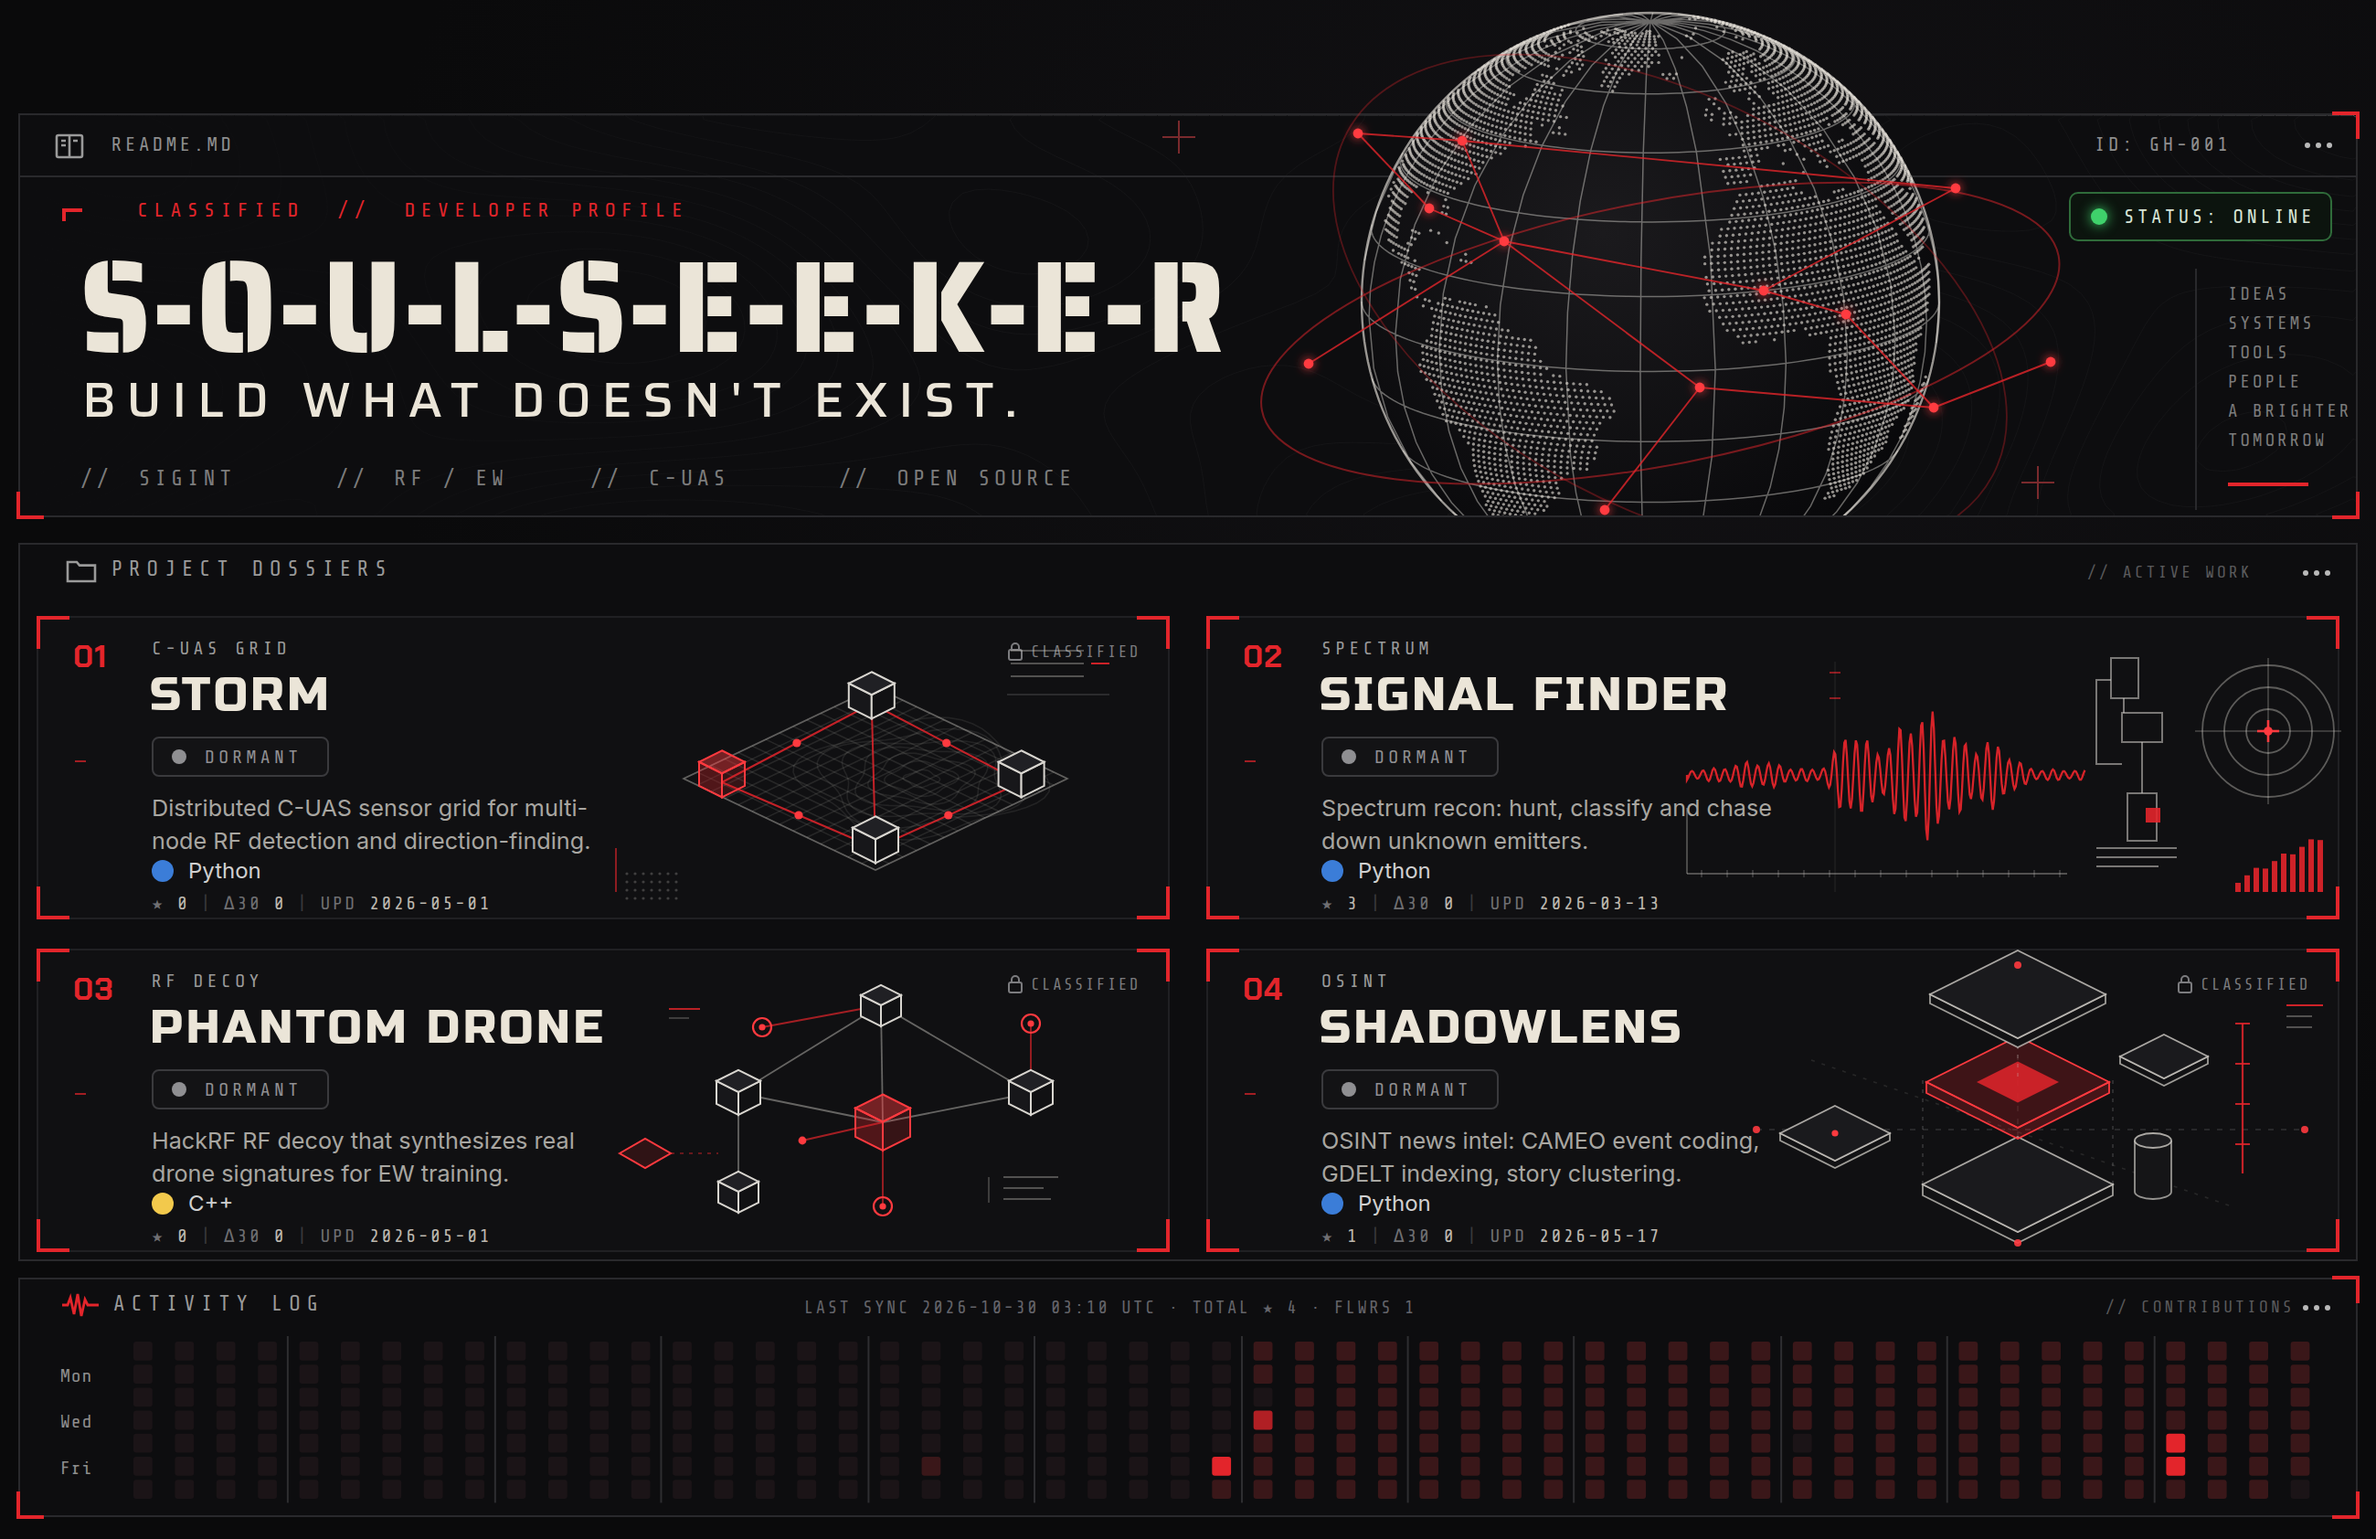
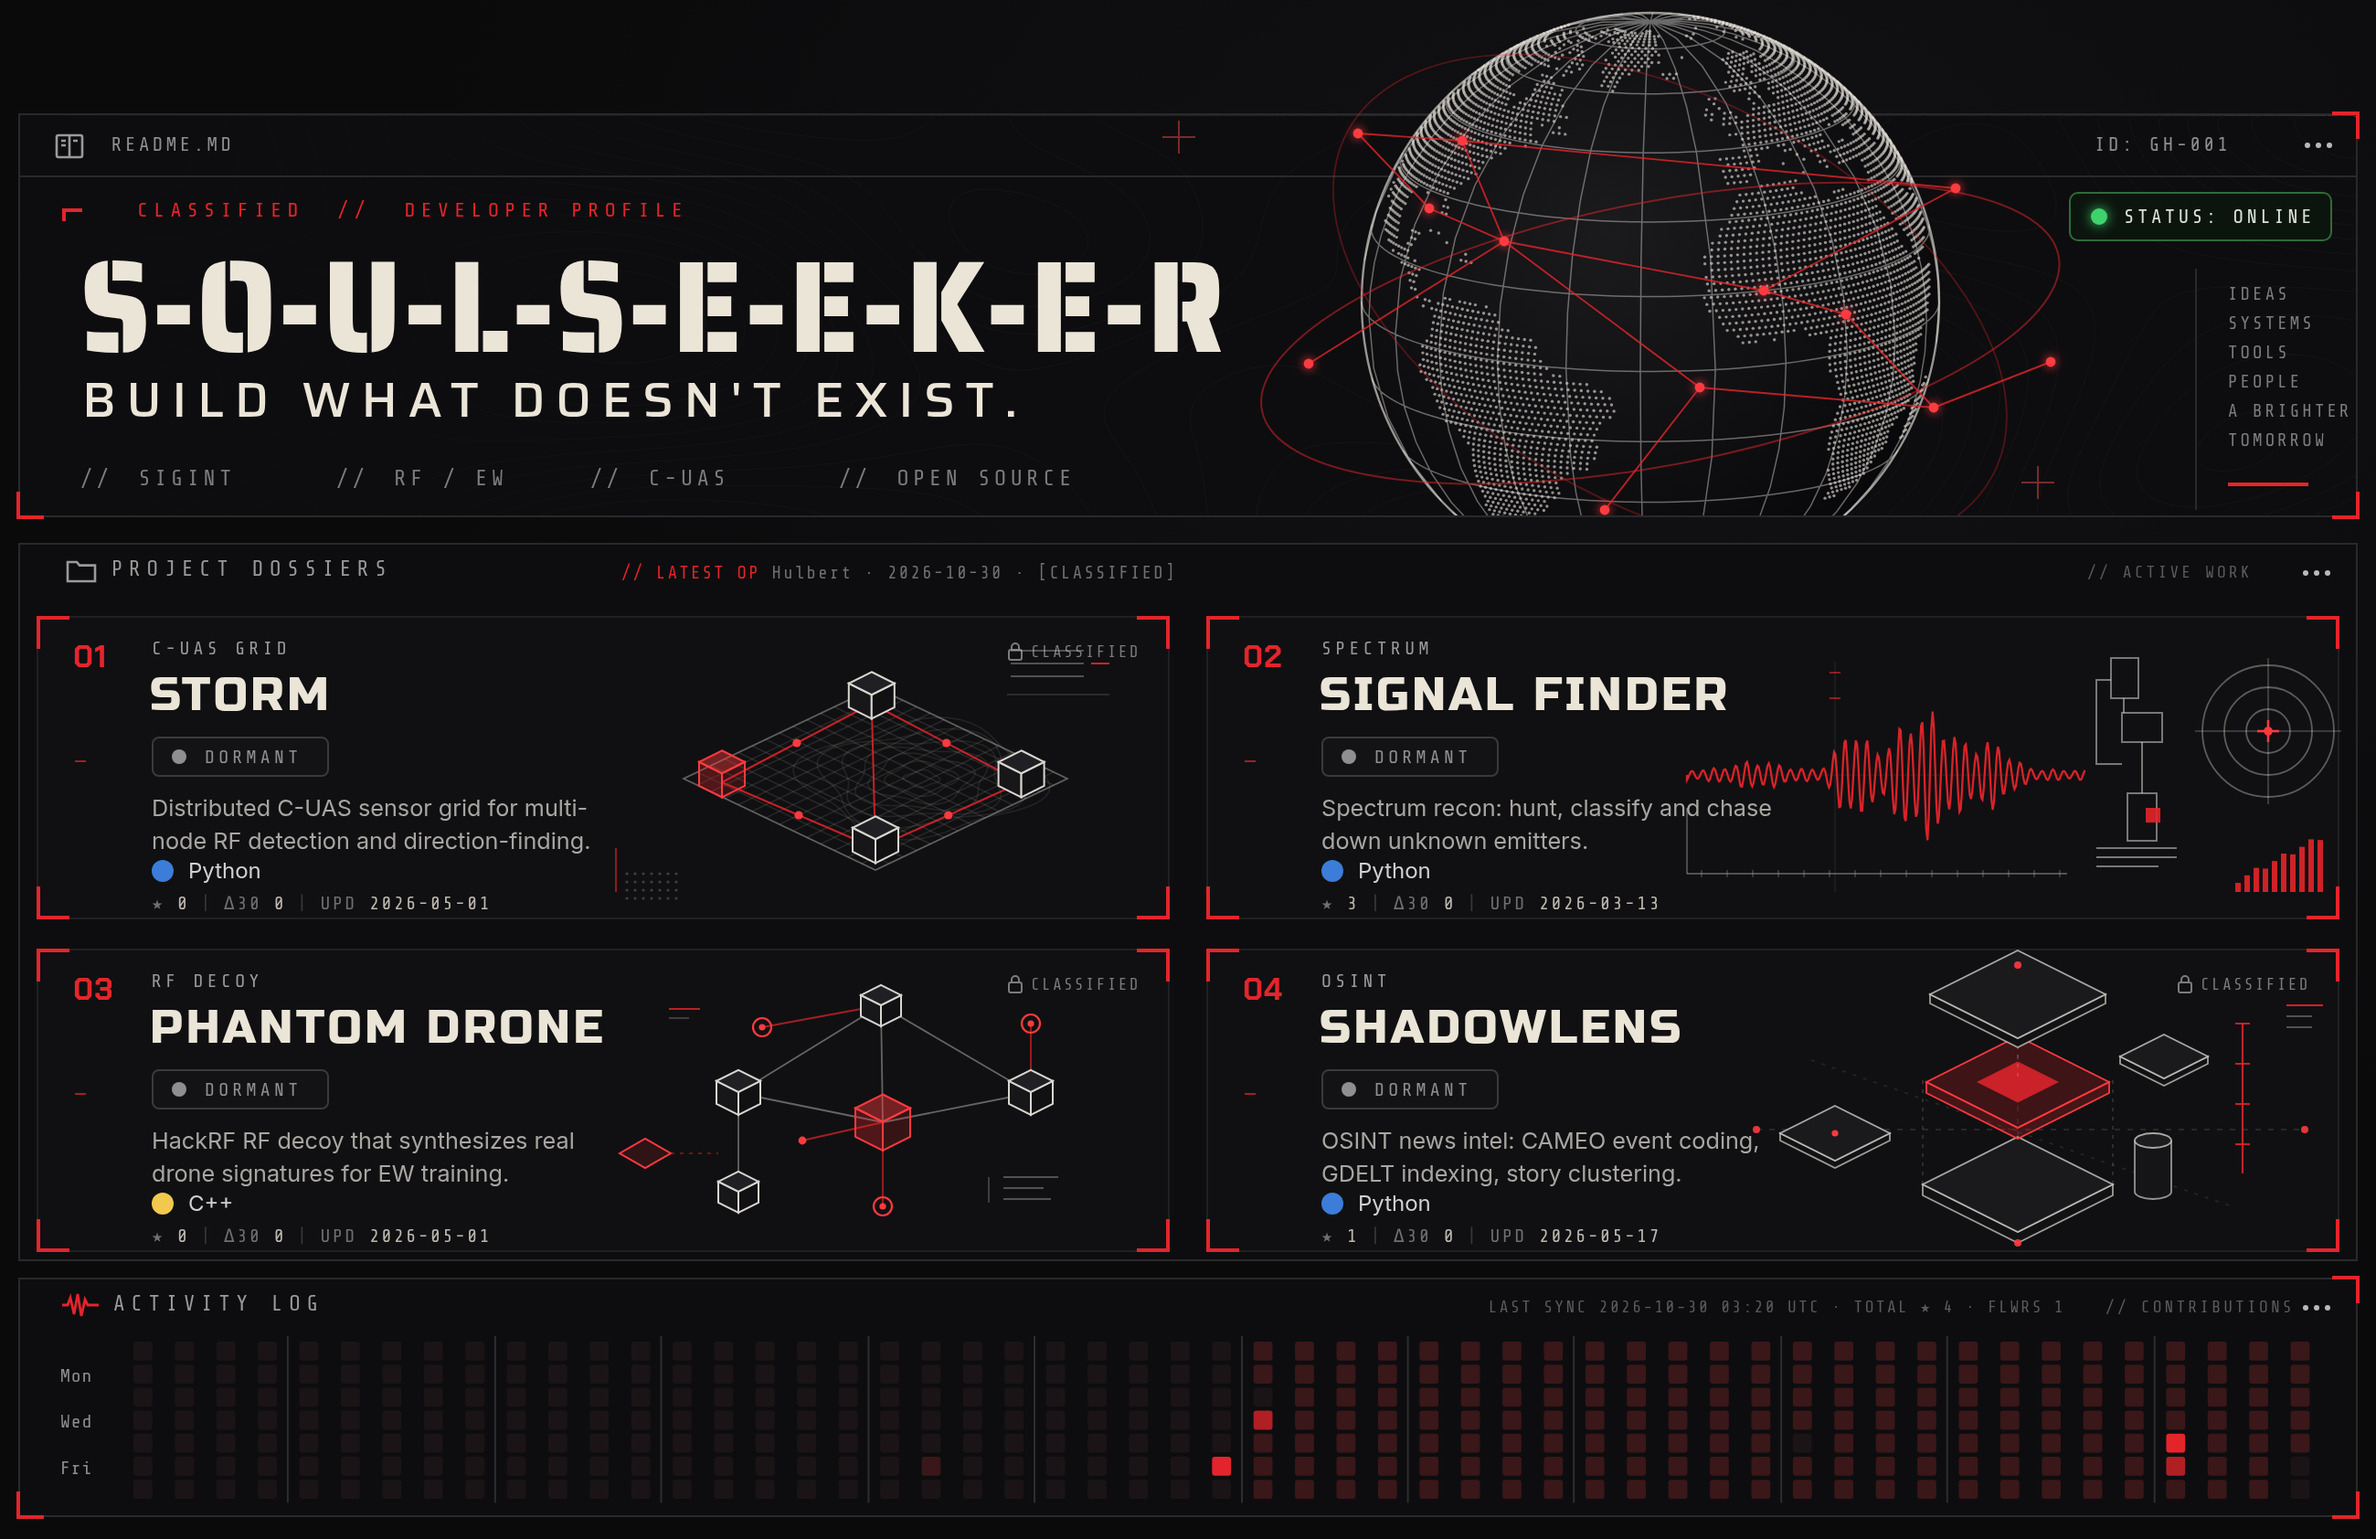
add LATEST OP line, daily throttle, MORE OPS public badges; drop caption lines

diff --git a/src/hero.html b/src/hero.html
@@ -118,6 +118,7 @@
     <path d="M1 2.5h5l1.5 1.8H16v8.7H1z"/></svg>
   <div class="abs mono shead" style="left:51px;top:243px">PROJECT DOSSIERS</div>
   <div class="abs mono sright" style="left:1132px;top:246px">// ACTIVE WORK</div>
+  <div class="abs mono" id="latest" style="left:330px;top:246px;color:#6f6f72;font-size:9.5px;letter-spacing:1.2px;white-space:nowrap"></div>
   <div class="kebab" style="left:1250px;top:250px"><i></i><i></i><i></i></div>
 
   <div id="cards"></div>
@@ -128,7 +129,7 @@
     <path d="M0 7h3l1.5-4 2 9 2-11 2 12 2-9 1.5 3H20"/></svg>
   <div class="abs mono shead" style="left:52px;top:645px">ACTIVITY LOG</div>
   <div class="abs mono sright" style="left:1142px;top:648px">// CONTRIBUTIONS</div>
-  <div class="abs mono" id="sync" style="left:430px;top:648px;color:#64646a;font-size:9.5px;letter-spacing:1.3px;white-space:nowrap"></div>
+  <div class="abs mono" id="sync" style="left:760px;top:648px;color:#5a5a5e;font-size:9px;letter-spacing:1.2px;white-space:nowrap;text-align:right;width:360px"></div>
   <div class="kebab" style="left:1250px;top:652px"><i></i><i></i><i></i></div>
   <svg id="cal" class="abs" style="left:0;top:637px" width="1280" height="131"></svg>
   <div class="brk tr" style="left:1266px;top:636px"></div>
@@ -451,6 +452,12 @@ function buildCalendar(weeks){
   const stars=cards.reduce((a,c)=>a+(c.stars||0),0);
   const sync=document.getElementById('sync');
   if(sync) sync.textContent=`LAST SYNC ${data&&data.updated?data.updated:'OFFLINE'}   ·   TOTAL ★ ${stars}   ·   FLWRS ${data&&data.followers!=null?data.followers:'—'}`;
+  const lat=document.getElementById('latest'), L=(data&&data.latest)||{};
+  if(lat && L.repo){
+    const dt=(L.date||'').slice(0,10);
+    const tail=L.private ? '[CLASSIFIED]' : (L.msg?('"'+L.msg+'"'):'');
+    lat.innerHTML=`<span style="color:#e3252b">// LATEST OP</span>  ${L.repo} · ${dt}  ${tail?'· '+tail:''}`;
+  }
   document.body.dataset.ready='1';
 })();
 </script>

diff --git a/scripts/build_profile.py b/scripts/build_profile.py
@@ -74,9 +74,12 @@ def main():
         }}
         repositories(first: 100, ownerAffiliations: OWNER, isFork: false) {{
           nodes {{
+            name isPrivate pushedAt stargazerCount
+            primaryLanguage {{ name color }}
             languages(first: 8, orderBy: {{field: SIZE, direction: DESC}}) {{
               edges {{ size node {{ name color }} }}
             }}
+            defaultBranchRef {{ target {{ ... on Commit {{ history(first: 1) {{ nodes {{ messageHeadline committedDate }} }} }} }} }}
           }}
         }}
       }}
@@ -93,12 +96,13 @@ def main():
         prior["__flw__"] = prev.get("followers")
         prior["__lang__"] = prev.get("langs", [])
         prior["__tot__"] = prev.get("totals", {})
+        prior["__latest__"] = prev.get("latest", {})
     except Exception:
         pass
 
     data = {"updated": datetime.datetime.now(datetime.timezone.utc).strftime("%Y-%m-%d %H:%M UTC"),
             "cards": [], "calendar": [], "followers": None,
-            "langs": [], "totals": {}}
+            "langs": [], "totals": {}, "latest": {}}
     try:
         res = gql(query)
         d = res.get("data") or {}
@@ -153,12 +157,28 @@ def main():
         # language mix across all owned non-fork repos
         repos = ((u.get("repositories") or {}).get("nodes")) or []
         agg = {}
+        latest = None
         for rp in repos:
             for e in ((rp.get("languages") or {}).get("edges") or []):
                 nm = e["node"]["name"]
                 if nm not in agg:
                     agg[nm] = {"size": 0, "color": e["node"].get("color") or "#888"}
                 agg[nm]["size"] += e.get("size", 0)
+            # latest commit across all repos (message only for public repos).
+            # Skip the profile repo itself — its bot refresh commits would
+            # always win and be self-referential.
+            if rp.get("name") == USER:
+                continue
+            push = rp.get("pushedAt")
+            if push and (latest is None or push > latest["date"]):
+                hn = (((rp.get("defaultBranchRef") or {}).get("target") or {}).get("history") or {}).get("nodes") or []
+                msg = (hn[0].get("messageHeadline") if hn else "") if not rp.get("isPrivate") else ""
+                latest = {"repo": rp.get("name"), "date": push,
+                          "private": bool(rp.get("isPrivate")), "msg": (msg or "")[:48]}
+        if latest:
+            data["latest"] = latest
+        else:
+            data["latest"] = prior.get("__latest__", {})
         tot_sz = sum(v["size"] for v in agg.values()) or 1
         top = sorted(agg.items(), key=lambda kv: kv[1]["size"], reverse=True)[:6]
         if top:
@@ -190,6 +210,7 @@ def main():
         data["followers"] = prior.get("__flw__")
         data["langs"] = prior.get("__lang__", [])
         data["totals"] = prior.get("__tot__", {})
+        data["latest"] = prior.get("__latest__", {})
         for c in CARDS:
             p = prior.get(c["title"], {})
             data["cards"].append({"id": c["id"], "title": c["title"], "role": c["role"],

diff --git a/README.md b/README.md
@@ -4,8 +4,6 @@
 
 <a href="https://github.com/S-O-U-L-S-E-E-K-E-R?tab=repositories"><img src="./assets/hero.png" alt="SOULSEEKER // build what doesn't exist — SIGINT · RF · EW · OFFSEC · open source" width="100%" /></a>
 
-<sub>↑ live dossier — regenerated every 6h from real repo activity + contribution graph</sub>
-
 [![typing](https://readme-typing-svg.demolab.com?font=JetBrains+Mono&weight=600&size=18&pause=900&color=E4322B&center=true&vCenter=true&width=760&lines=%3E+ESTABLISHING+SECURE+LINK...;%3E+DECODING+THE+SPECTRUM+NO+ONE+ELSE+HEARS;%3E+DRONES+%7C+SDR+%7C+MESH+%7C+SIGNALS+INTELLIGENCE;%3E+BUILD.+DETECT.+DOMINATE+THE+RF+DOMAIN.)](https://git.io/typing-svg)
 
 `CLEARANCE: SELF-ISSUED` &nbsp;·&nbsp; `THEATER: THE AIRWAVES` &nbsp;·&nbsp; `ID: GH-001`
@@ -32,7 +30,12 @@ disposition   = builds the tool rather than waits for it
 ![phantom-drone](https://img.shields.io/badge/03%20PHANTOM%20DRONE-CLASSIFIED-0a0a0b?style=for-the-badge&labelColor=0a0a0b&color=3a3a3d)
 ![ShadowLens](https://img.shields.io/badge/04%20SHADOWLENS-CLASSIFIED-0a0a0b?style=for-the-badge&labelColor=0a0a0b&color=3a3a3d)
 
-<sub>Signal-Finder is public (badge shows live ★ and links out). STORM · phantom-drone · ShadowLens are private — access restricted.</sub>
+### ▞ MORE OPS &nbsp;`// PUBLIC`
+
+[![The-Church-of-the-Machines](https://img.shields.io/github/stars/S-O-U-L-S-E-E-K-E-R/The-Church-of-the-Machines?style=flat-square&label=The-Church-of-the-Machines&labelColor=0a0a0b&color=e3252b&logo=github)](https://github.com/S-O-U-L-S-E-E-K-E-R/The-Church-of-the-Machines)
+[![Auto-Commiter-Bot](https://img.shields.io/github/stars/S-O-U-L-S-E-E-K-E-R/Auto-Commiter-Bot?style=flat-square&label=Auto-Commiter-Bot&labelColor=0a0a0b&color=e3252b&logo=github)](https://github.com/S-O-U-L-S-E-E-K-E-R/Auto-Commiter-Bot)
+[![Multi_Universal_Gravity_Simulation](https://img.shields.io/github/stars/S-O-U-L-S-E-E-K-E-R/Multi_Universal_Gravity_Simulation?style=flat-square&label=Gravity-Sim&labelColor=0a0a0b&color=e3252b&logo=github)](https://github.com/S-O-U-L-S-E-E-K-E-R/Multi_Universal_Gravity_Simulation)
+[![all repos](https://img.shields.io/badge/+%20all%20repos-0a0a0b?style=flat-square&labelColor=0a0a0b&color=3a3a3d&logo=github)](https://github.com/S-O-U-L-S-E-E-K-E-R?tab=repositories)
 
 ---
 
